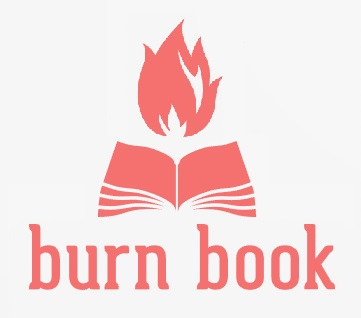
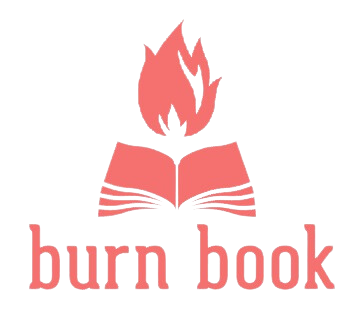
current styling of signup page

diff --git a/frontend/src/components/user/SignUpForm.js b/frontend/src/components/user/SignUpForm.js
@@ -56,29 +56,29 @@ const SignUpForm = ({ navigate }) => {
   };
 
   return (
-    <div class="bg-yellow-50">
-    <div className="p-28 rounded-lg">
+    <div>
+    <div class="bg-body-background">
+    <div className="p-20 mx-w-md rounded-lg ">
       <div className="flex min-h-full">
-            <div className="flex flex-1 flex-col justify-center py-12 px-4 lg:px-6 lg:flex-none lg:px-20 xl:px-24">
+            <div className="flex flex-1 flex-col justify-center py-12 px-4 lg:px-6 lg:flex-none lg:px-20 xl:px-24 bg-white rounded-2xl">
               <div className="mx-auto w-full max-w-lg lg:w-96">
                 <div>
+
                   <img
-                    className="h-12 w-auto"
+                    className="h-auto w-auto"
                     src="./burnbook.png"
                     alt="burn-book"
                   />
-                  <h2 className="mt-6 text-3xl font-bold tracking-tight text-red-600">Sign Up</h2>
+                  <h2 className="mt-6 translate-x-32 text-3xl font-bold tracking-tight text-red-600">Sign Up</h2>
                   
                 </div >
                 <div className="flex p-4 mt-6">
                   <form onSubmit={handleSubmit}>
                   <div>
-                    <label className="block text-lg font-medium leading-6 text-gray-900">
-                      First Name
-                    </label>
                     <div className="mt-2">
                       <input
-                        className="block w-full rounded-lg border-0 py-1.5 shadow-lg ring-1 ring-inset ring-gray-300 placeholder:text-gray-400 focus:ring-2 focus:ring-inset focus:ring-red-600 lg:text-lg lg:leading-6"
+                        className="translate-x-14 block w-full rounded-lg border-0 py-1.5 shadow-lg ring-1 ring-inset ring-gray-300 placeholder:text-gray-400 focus:ring-2 focus:ring-inset focus:ring-red-600 lg:text-lg lg:leading-6"
+                        placeholder="First Name"
                         id="firstName"
                         type="text"
                         value={firstName}
@@ -87,12 +87,10 @@ const SignUpForm = ({ navigate }) => {
                     </div>
                   </div>
                   <div>
-                    <label className="block text-lg font-medium leading-6 text-gray-900">
-                      Last Name
-                    </label>
                     <div className="mt-2">
                       <input
-                        className="block w-full rounded-lg border-0 py-1.5 shadow-lg ring-1 ring-inset ring-gray-300 placeholder:text-gray-400 focus:ring-2 focus:ring-inset focus:ring-red-600 lg:text-lg lg:leading-6"
+                        className="translate-x-14 block w-full rounded-lg border-0 py-1.5 shadow-lg ring-1 ring-inset ring-gray-300 placeholder:text-gray-400 focus:ring-2 focus:ring-inset focus:ring-red-600 lg:text-lg lg:leading-6"
+                        placeholder="Last Name"
                         id="lastName"
                         type="text"
                         value={lastName}
@@ -101,12 +99,10 @@ const SignUpForm = ({ navigate }) => {
                     </div>
                   </div>
                   <div>
-                    <label className="block text-lg font-medium leading-6 text-gray-900">
-                      Email
-                    </label>
-                    <div className="mb-2">
+                    <div className="mt-2">
                       <input
-                        className="block w-full rounded-lg border-0 py-1.5 shadow-lg ring-1 ring-inset ring-gray-300 placeholder:text-gray-400 focus:ring-2 focus:ring-inset focus:ring-red-600 lg:text-lg lg:leading-6"
+                        className="translate-x-14 block w-full rounded-lg border-0 py-1.5 shadow-lg ring-1 ring-inset ring-gray-300 placeholder:text-gray-400 focus:ring-2 focus:ring-inset focus:ring-red-600 lg:text-lg lg:leading-6"
+                        placeholder="Email"
                         id="email"
                         type="text"
                         value={email}
@@ -114,12 +110,10 @@ const SignUpForm = ({ navigate }) => {
                       />
                     </div>
                   </div>
-                  <div>
-                    <label className="block text-lg font-medium leading-6 text-gray-900">
-                      Password
-                    </label>
+                  <div className="mt-2">
                     <input
-                      className="block w-full rounded-lg border-0 py-1.5 shadow-lg ring-1 ring-inset ring-gray-300 placeholder:text-gray-400 focus:ring-2 focus:ring-inset focus:ring-red-600 lg:text-lg lg:leading-6"
+                      className="translate-x-14 block w-full rounded-lg border-0 py-1.5 shadow-lg ring-1 ring-inset ring-gray-300 placeholder:text-gray-400 focus:ring-2 focus:ring-inset focus:ring-red-600 lg:text-lg lg:leading-6"
+                      placeholder="Password"
                       id="password"
                       type="password"
                       value={password}
@@ -128,9 +122,9 @@ const SignUpForm = ({ navigate }) => {
                   </div>
 
                   
-                  <div class="mt-12" >
+                  <div class="mt-2" >
                     <input 
-                      className="flex w-full justify-center rounded-lg bg-red-400 py-2 px-3 text-lg font-semibold text-white shadow-lg hover:bg-red-600 focus-visible:outline focus-visible:outline-2 focus-visible:outline-offset-2 focus-visible:outline-indigo-600"
+                      className="translate-x-14 flex w-full justify-center rounded-lg bg-red-400 py-2 px-3 text-lg font-semibold text-white shadow-lg hover:bg-red-600 focus-visible:outline focus-visible:outline-2 focus-visible:outline-offset-2 focus-visible:outline-indigo-600"
                       id="submit" 
                       type="submit" 
                       value="Submit"
@@ -144,14 +138,16 @@ const SignUpForm = ({ navigate }) => {
               </div>
             </div>
             <div className="relative hidden w-0 flex-1 lg:block flex min-h-full">
-                  <img
+               <img
                     className="absolute inset-100 h-full w-full object-cover"
                     src="./bookflame.png"//heerreee
                     alt=""
                   />
+                 
             </div>
           </div>
         </div>  
+    </div>
     </div>
     
 

diff --git a/frontend/tailwind.config.js b/frontend/tailwind.config.js
@@ -1,10 +1,17 @@
 /** @type {import('tailwindcss').Config} */
 module.exports = {
-  content: ["./src/**/**/*.{js,jsx,ts,tsx}"],
+  content: ['./src/**/**/*.{js,jsx,ts,tsx}'],
   theme: {
-    extend: {},
+    extend: {
+      fontFamily: {
+        sans: ['Inter var'],
+      },
+      backgroundImage: {
+        'body-background': "url(‘../public/img/burnbookbg.jpg')",
+      },
+    },
   },
   plugins: [
     require('@tailwindcss/forms'),
   ],
-}
+};
